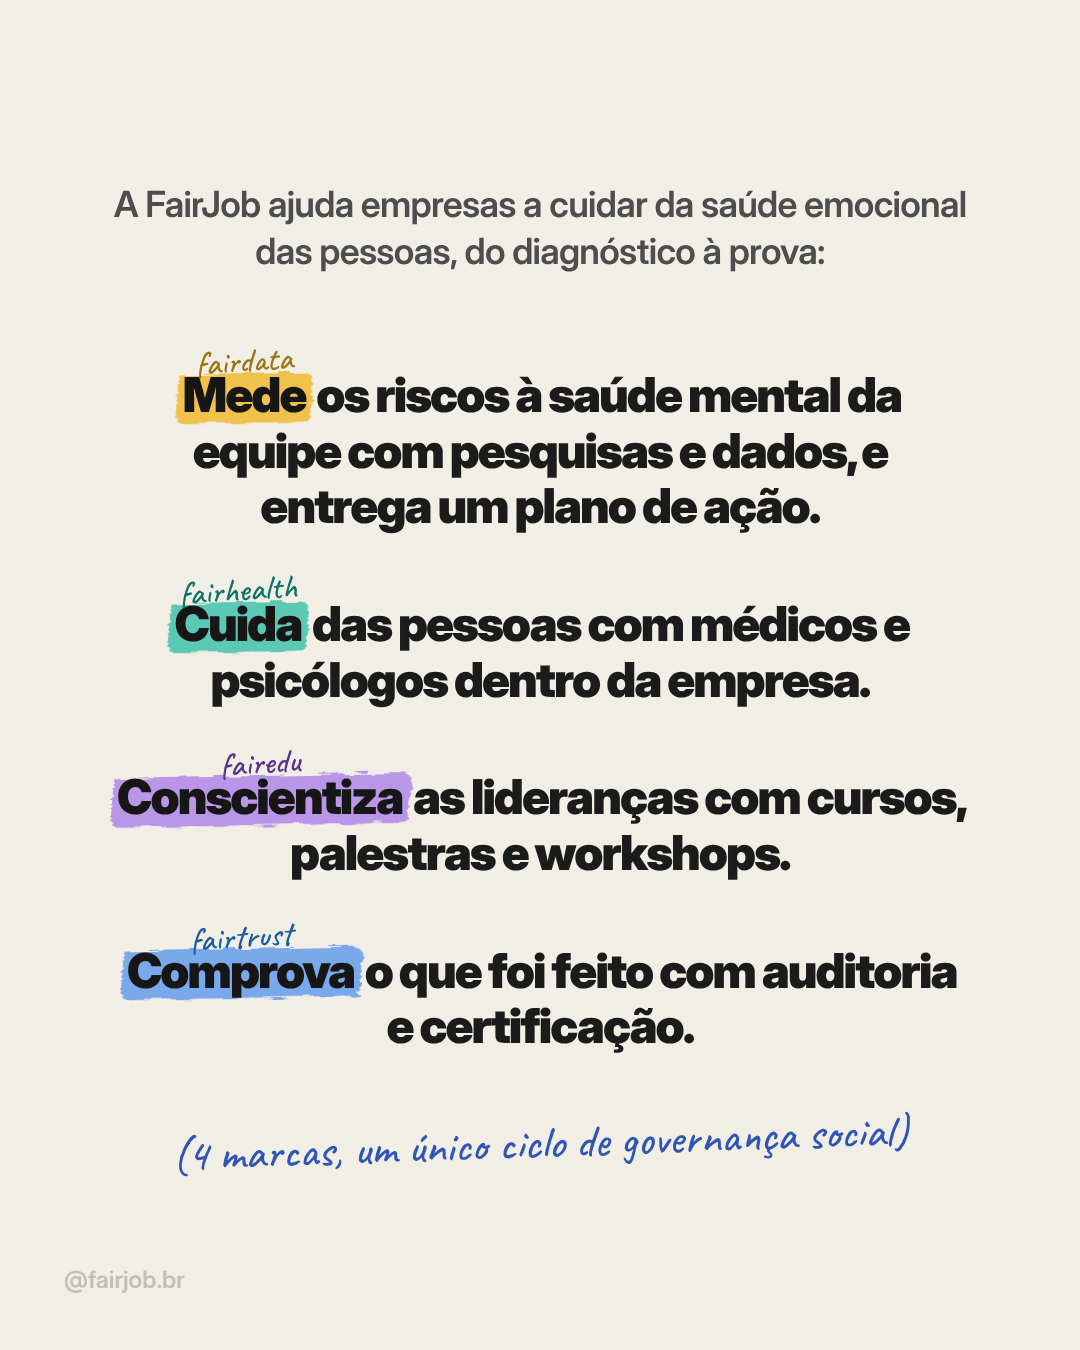
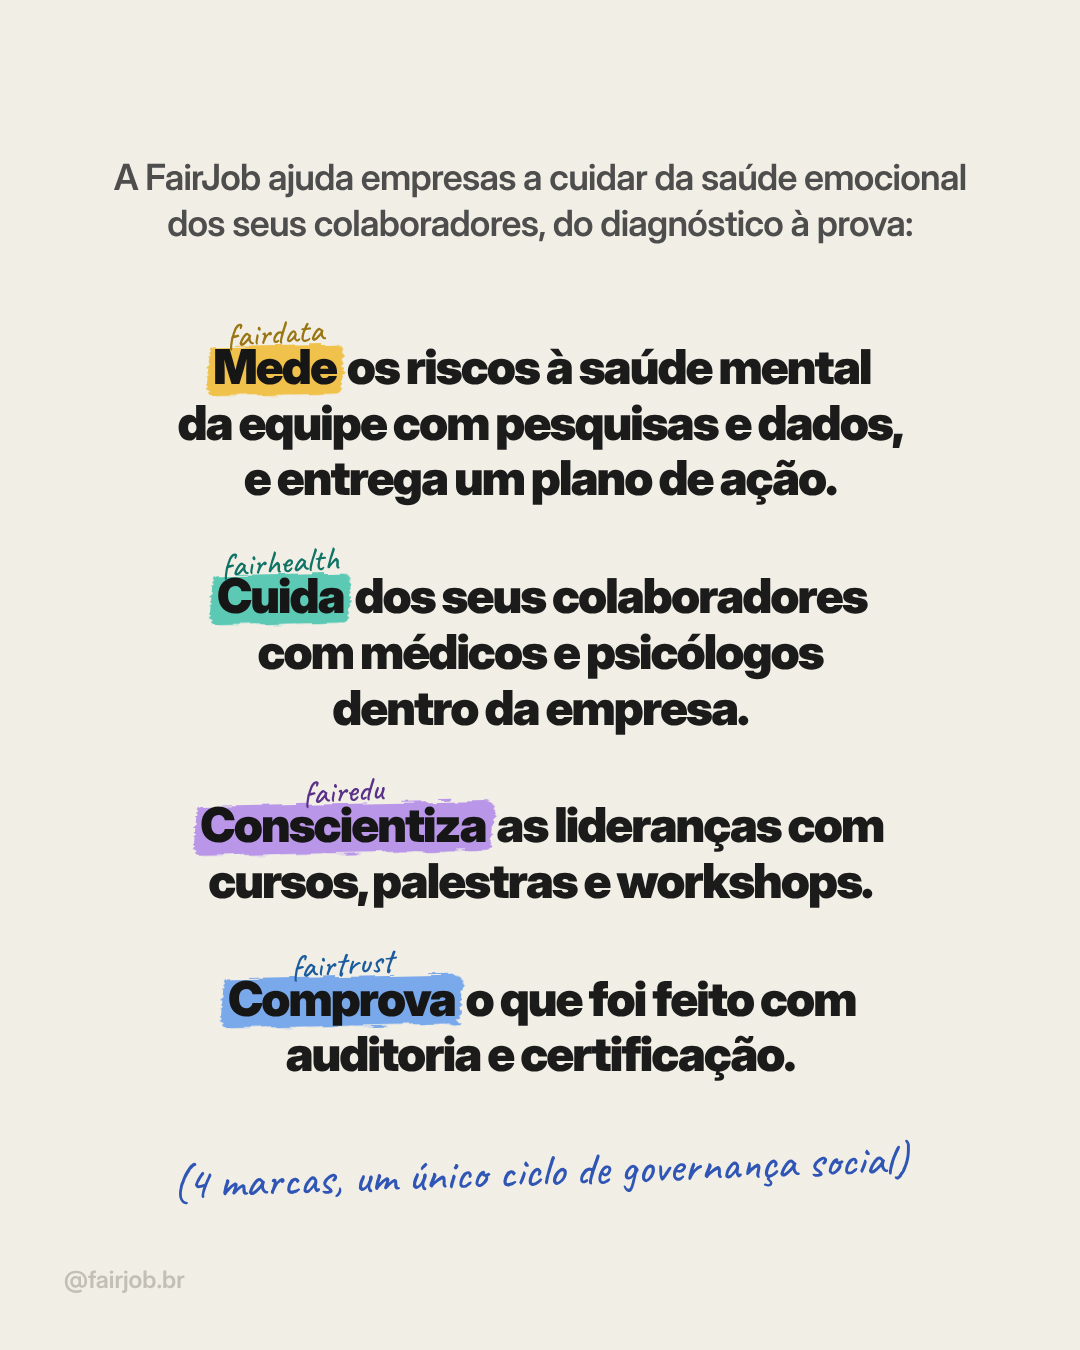
Post 02: 'seus colaboradores' instead of 'pessoas', balanced line breaks
Claude-Session: https://claude.ai/code/session_01BNRZX6VSYKwV1xCbt1XY1x

Changed region(s): [[0.0917, 0.2489, 0.8861, 0.8089], [0.0917, 0.1244, 0.9167, 0.2178], [0.1528, 0.8089, 0.8556, 0.9022]]

diff --git a/posts/02-o-que-fazemos/post.html b/posts/02-o-que-fazemos/post.html
@@ -18,7 +18,7 @@
     width: 1080px; height: 1350px; position: relative; overflow: hidden;
     background: var(--papel); color: var(--tinta);
     font-family: "Inter Display", "Inter", sans-serif;
-    display: flex; flex-direction: column; justify-content: center; padding: 0 110px;
+    display: flex; flex-direction: column; justify-content: center; padding: 0 100px;
   }
   /* textura de papel */
   .slide::before {
@@ -58,12 +58,12 @@
 
 <section class="slide">
 
-  <p class="intro">A FairJob ajuda empresas a cuidar da saúde emocional das pessoas, do diagnóstico à prova:</p>
+  <p class="intro">A FairJob ajuda empresas a cuidar da saúde emocional dos seus colaboradores, do diagnóstico à prova:</p>
 
-  <p class="frase"><span class="mk data"><i>fairdata</i>Mede</span> os riscos à saúde mental da equipe com pesquisas e dados, e entrega um plano de ação.</p>
-  <p class="frase"><span class="mk health"><i>fairhealth</i>Cuida</span> das pessoas com médicos e psicólogos dentro da empresa.</p>
-  <p class="frase"><span class="mk edu"><i>fairedu</i>Conscientiza</span> as lideranças com cursos, palestras e workshops.</p>
-  <p class="frase"><span class="mk trust"><i>fairtrust</i>Comprova</span> o que foi feito com auditoria e certificação.</p>
+  <p class="frase"><span class="mk data"><i>fairdata</i>Mede</span> os riscos à saúde mental<br>da equipe com pesquisas e dados,<br>e entrega um plano de ação.</p>
+  <p class="frase"><span class="mk health"><i>fairhealth</i>Cuida</span> dos seus colaboradores<br>com médicos e psicólogos<br>dentro da empresa.</p>
+  <p class="frase"><span class="mk edu"><i>fairedu</i>Conscientiza</span> as lideranças com<br>cursos, palestras e workshops.</p>
+  <p class="frase"><span class="mk trust"><i>fairtrust</i>Comprova</span> o que foi feito com<br>auditoria e certificação.</p>
 
   <p class="nota">(4 marcas, um único ciclo de governança social)</p>
 
